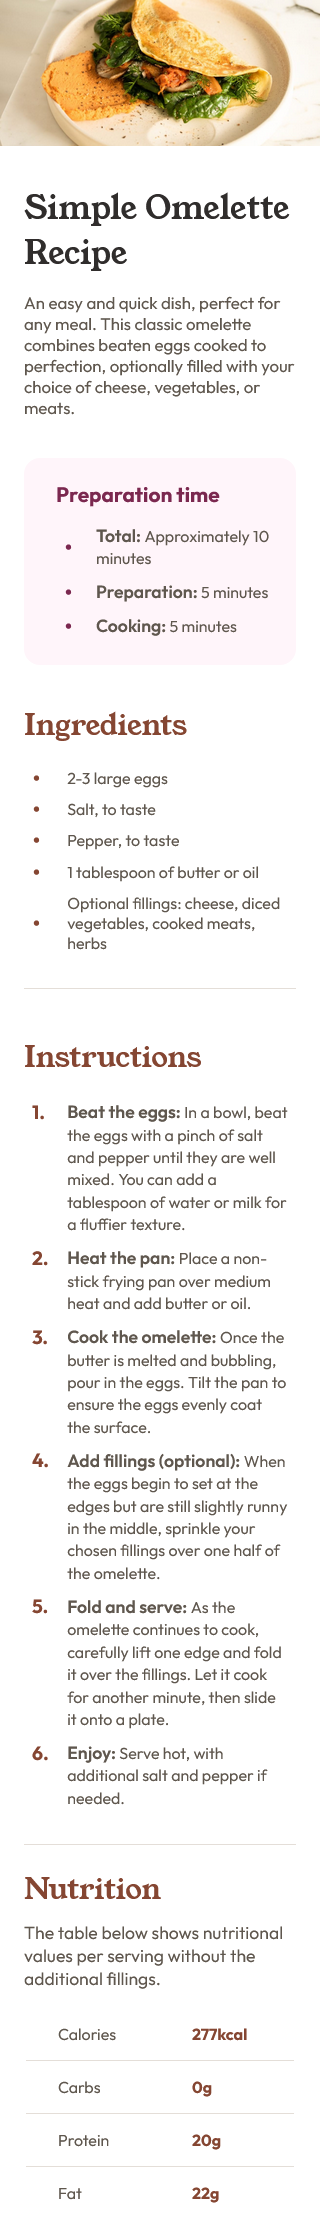
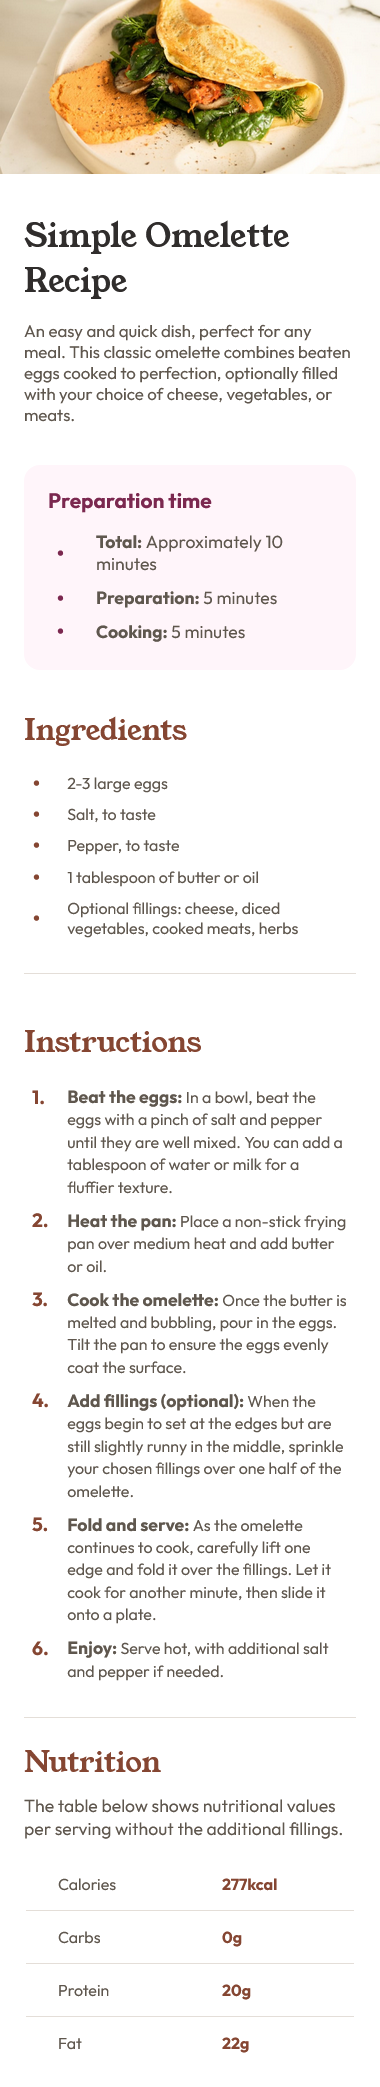
Updated Screenshots

diff --git a/src/components/Preparation.css b/src/components/Preparation.css
@@ -5,7 +5,8 @@
     background-color: var(--Rose0);
     margin-inline: 1.5rem;
     margin-block: 1rem;
-    padding: 1rem;
+    padding-block: 1rem;
+    padding-inline: 0.5rem;
     border-radius: 1rem;
     line-height: 140%;
 }
@@ -24,8 +25,9 @@ h3 {
     font-weight: 400;
     margin-inline: 0.5rem;
     margin-block: 0.7rem;
-    padding-left: 3rem;
-
+    padding-inline: 3.5rem;
+    
+    font-size: 1.1rem;
 }
 
 .preparation-ul > li::before {
@@ -40,7 +42,7 @@ h3 {
 }
 
 li strong {
-    font-weight: 600;
+    font-weight: 700;
     font-size: 1.1rem;
 }
 
